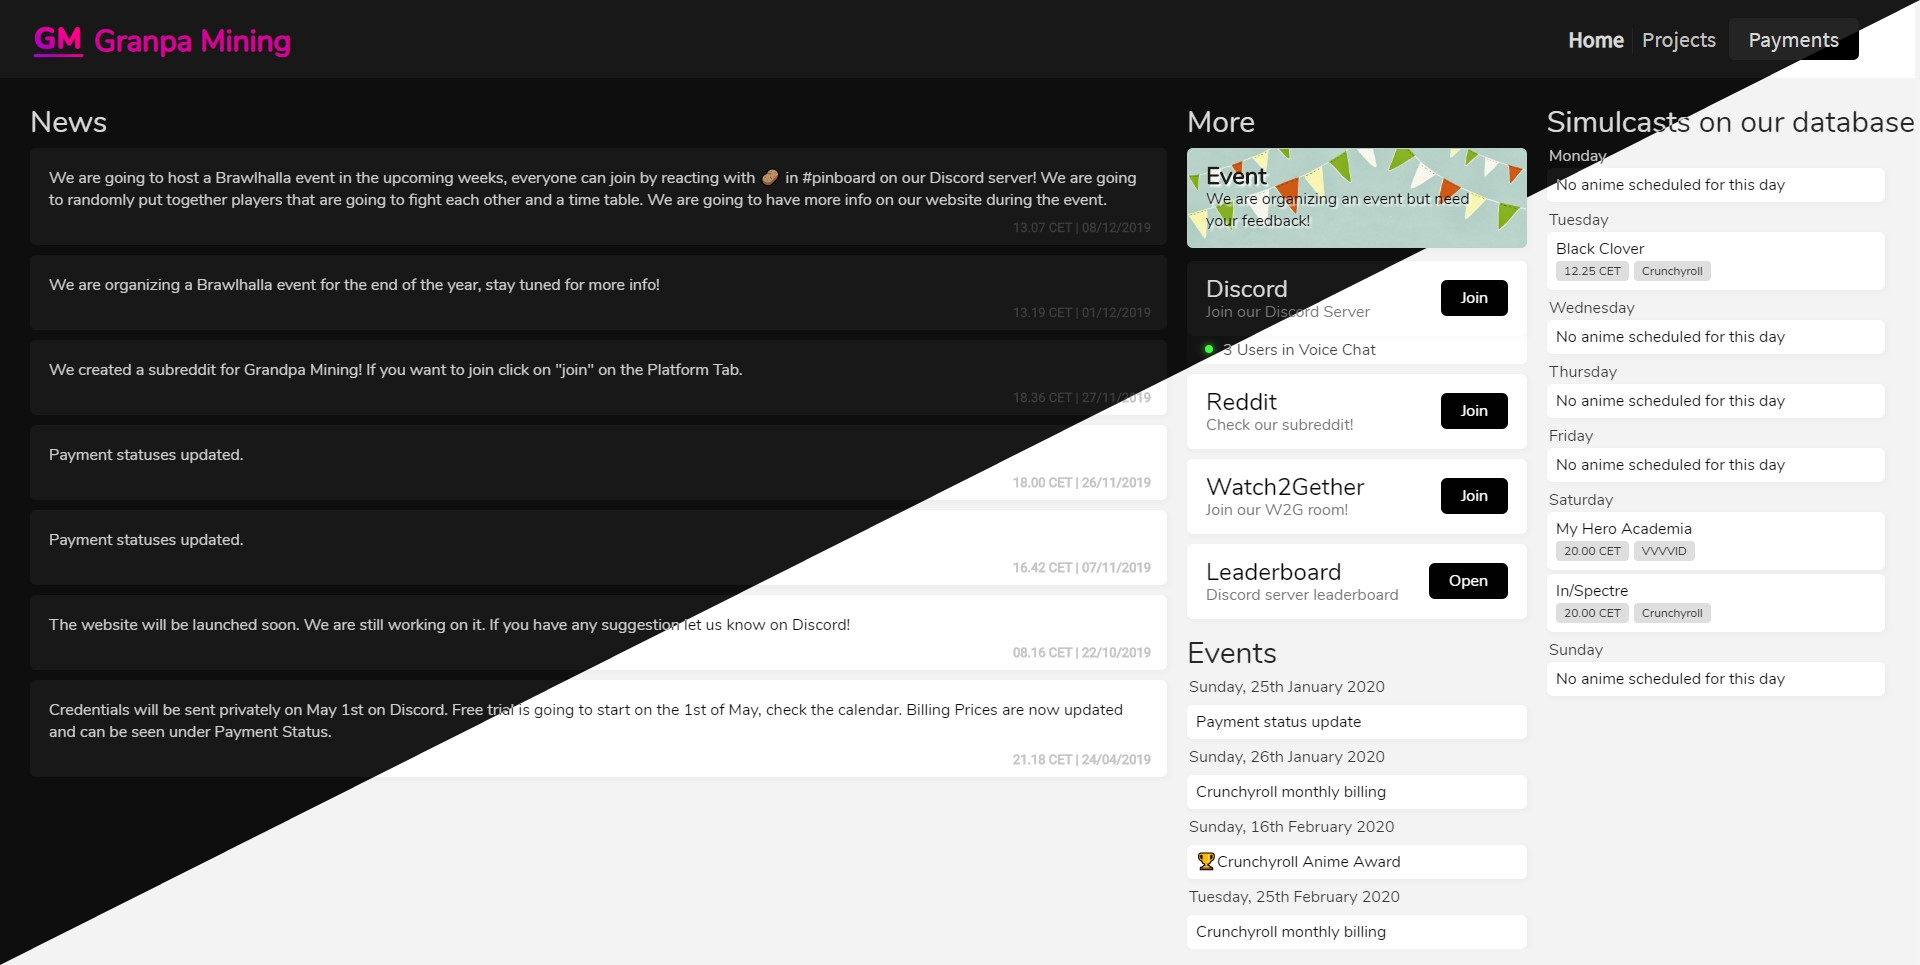
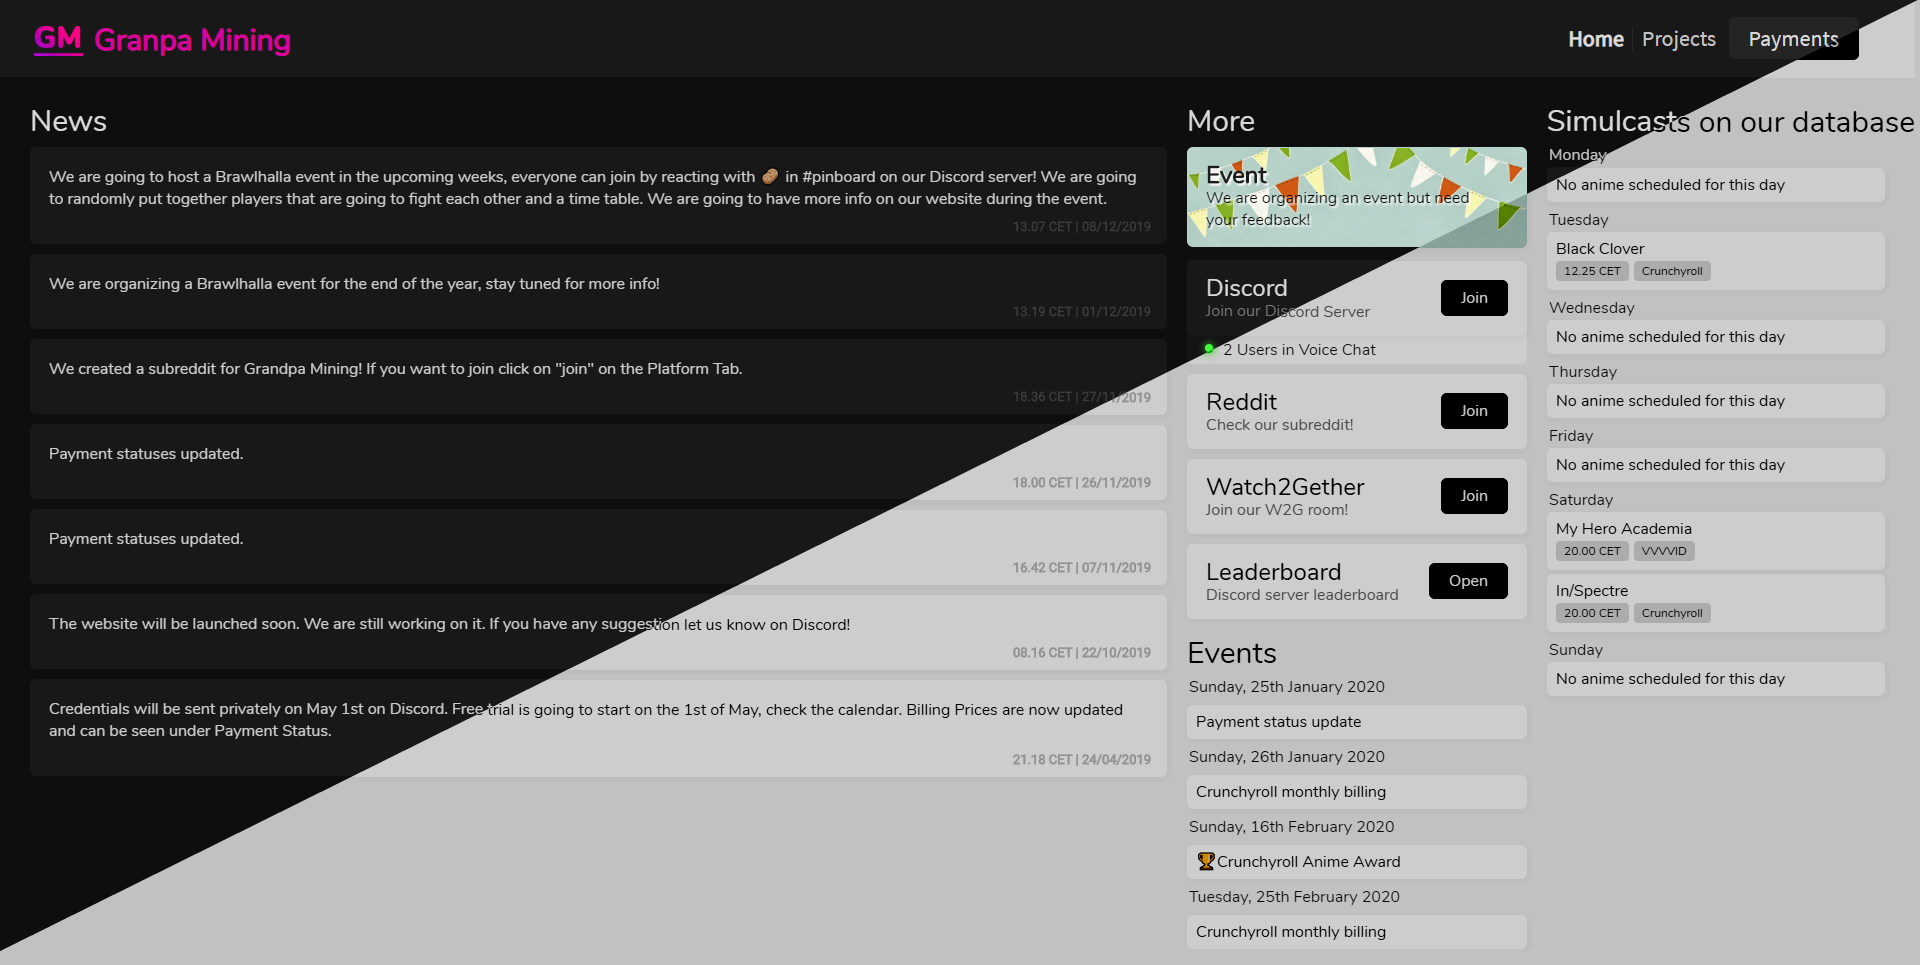
Almost finished

diff --git a/main.js b/main.js
@@ -1,3 +1,27 @@
+let dark = false
+
+document.getElementById('switch').addEventListener('click', () => {
+    if (dark === false){
+        document.getElementById('switch').style.rotate = '180deg'
+        document.getElementById('switch').style.filter = 'invert(100%)'
+        let darkCss = document.createElement('link')
+        darkCss.href = 'dark.css'
+        darkCss.rel = 'stylesheet'
+        document.getElementsByTagName('head')[0].append(darkCss)
+        dark = true
+        localStorage.setItem('theme', 'dark')
+    } else {
+        document.getElementById('switch').style.rotate = ''
+        document.getElementById('switch').style.filter = ''
+        document.getElementsByTagName('link')[2].remove
+        dark = false
+        localStorage.setItem('theme', 'light')
+        setTimeout(() => {
+            location.reload()
+        }, 600);
+    }
+})
+
 document.getElementsByClassName('discord')[0].addEventListener('mouseover', (e) => {
     document.getElementsByClassName('discord')[0].innerText = 'iGoof#0982'
 })
@@ -11,3 +35,65 @@ document.getElementsByClassName('email')[0].addEventListener('mouseover', (e) =>
 document.getElementsByClassName('email')[0].addEventListener('mouseleave', (e) => {
     document.getElementsByClassName('email')[0].innerText = 'E-Mail'
 })
+
+//one
+document.getElementById('one').addEventListener('mouseover', (e) => {
+    document.getElementById('one-title').style.top = '-190px'
+    document.getElementById('one-title').style.fontSize = '20px'
+    document.getElementById('one-text').style.top = '-180px'
+    document.getElementById('one-img').style.filter = 'blur(4px)'
+})
+document.getElementById('one').addEventListener('mouseleave', (e) => {
+    document.getElementById('one-title').style.top = '-40px'
+    document.getElementById('one-title').style.fontSize = '28px'
+    document.getElementById('one-text').style.top = '0px'
+    document.getElementById('one-img').style.filter = ''
+})
+//two
+document.getElementById('two').addEventListener('mouseover', (e) => {
+    document.getElementById('two-title').style.top = '-190px'
+    document.getElementById('two-title').style.fontSize = '20px'
+    document.getElementById('two-text').style.top = '-180px'
+    document.getElementById('two-img').style.filter = 'blur(4px)'
+})
+document.getElementById('two').addEventListener('mouseleave', (e) => {
+    document.getElementById('two-title').style.top = '-40px'
+    document.getElementById('two-title').style.fontSize = '28px'
+    document.getElementById('two-text').style.top = '0px'
+    document.getElementById('two-img').style.filter = ''
+})
+//three
+document.getElementById('three').addEventListener('mouseover', (e) => {
+    document.getElementById('three-title').style.top = '-190px'
+    document.getElementById('three-title').style.fontSize = '20px'
+    document.getElementById('three-text').style.top = '-180px'
+    document.getElementById('three-img').style.filter = 'blur(4px)'
+})
+document.getElementById('three').addEventListener('mouseleave', (e) => {
+    document.getElementById('three-title').style.top = '-40px'
+    document.getElementById('three-title').style.fontSize = '28px'
+    document.getElementById('three-text').style.top = '0px'
+    document.getElementById('three-img').style.filter = ''
+})
+//four
+document.getElementById('four').addEventListener('mouseover', (e) => {
+    document.getElementById('four-title').style.top = '-190px'
+    document.getElementById('four-title').style.fontSize = '20px'
+    document.getElementById('four-text').style.top = '-180px'
+    document.getElementById('four-img').style.filter = 'blur(4px)'
+})
+document.getElementById('four').addEventListener('mouseleave', (e) => {
+    document.getElementById('four-title').style.top = '-40px'
+    document.getElementById('four-title').style.fontSize = '28px'
+    document.getElementById('four-text').style.top = '0px'
+    document.getElementById('four-img').style.filter = ''
+})
+
+if (localStorage.getItem('theme') === 'dark'){
+    document.getElementById('switch').style.filter = 'invert(100%)'
+    let darkCss = document.createElement('link')
+    darkCss.href = 'dark.css'
+    darkCss.rel = 'stylesheet'
+    document.getElementsByTagName('head')[0].append(darkCss)
+    dark = true
+}

diff --git a/style.css b/style.css
@@ -1,6 +1,23 @@
 * {
     user-select: none;
 }
+body, .info {
+    transition: background 0.5s;
+}
+
+img#switch {
+    position: absolute;
+    height: 25px;
+    right: 30px;
+    top: 30px;
+    transition-property: filter, rotate;
+    transition: 0.6s;
+}
+img#switch:hover {
+    filter: invert(16%);
+    cursor: pointer;
+}
+
 .info {
     overflow: hidden;
     background: #eaeaea;
@@ -105,6 +122,9 @@
     border-radius: 10px;
     overflow: hidden;
     box-shadow: 0px 0px 20px 0px #0000006b;
+    position: relative;
+    left: 50%;
+    margin-left: -150px;
 }
 
 .projects img{
@@ -113,7 +133,7 @@
     transition: filter 0.3s;
 }
 .projects img:hover {
-    filter: blur(2px);
+    filter: blur(3px);
 }
 .projects h1 {
     z-index: 1;
@@ -121,11 +141,28 @@
     position: relative;
     top: -40px;
     float: right;
-    font-size: 26px;
+    font-size: 28px;
     font-family: 'Nunito';
     margin: 0px 16px 0px 0px;
     text-shadow: 2px 2px 8px black;
     pointer-events: none;
+    transition-property: top, font-size;
+    transition: 0.3s;
+}
+.projects p {
+    z-index: 1;
+    color: #f1f1f1;
+    position: relative;
+    top: 0px;
+    height: 174px;
+    float: right;
+    font-size: 18px;
+    font-family: 'Nunito';
+    margin: 0px 6px 0px 16px;
+    text-shadow: 2px 2px 2px black;
+    transition-property: top, font-size;
+    transition: 0.4s;
+    overflow: scroll;
 }
 .one {
     grid-row: 1;
@@ -149,3 +186,121 @@
     margin: 14px 0px 0px 0px;
 }
 
+div.five, div.six {
+    background-color: #181818;
+}
+.projects h2 {
+    z-index: 1;
+    color: white;
+    position: relative;
+    bottom: -160px;
+    float: right;
+    font-size: 28px;
+    font-family: 'Nunito';
+    margin: 0px 16px 0px 0px;
+    text-shadow: 2px 2px 8px black;
+    pointer-events: none;
+}
+
+@media screen and (max-width: 1832px){
+    .projects {
+        display: grid;
+        padding: 30px 20%;
+    }
+}
+@media screen and (max-width: 1570px){
+    .info {
+        padding: 30px 20%;
+    }
+    .projects {
+        display: grid;
+        padding: 30px 15%;
+    }
+}
+@media screen and (max-width: 1350px){
+    .info {
+        padding: 30px 15%;
+    }
+    .projects {
+        display: grid;
+        padding: 30px 10%;
+    }
+}
+@media screen and (max-width: 1242px){
+    .projects {
+        display: grid;
+        padding: 30px 10%;
+    }
+}
+@media screen and (max-width: 1182px){
+    .info {
+        padding: 30px 8%;
+    }
+    .projects {
+        display: grid;
+        padding: 30px 2%;
+    }
+}
+@media screen and (max-width: 970px){
+    .info {
+        padding: 30px 8%;
+    }
+    .projects {
+        display: block;
+        padding: 30px 2%;
+    }
+    .projects div {
+        width: 100%;
+        height: 200px;
+        display: inline-block;
+        border-radius: 10px;
+        overflow: hidden;
+        box-shadow: 0px 0px 20px 0px #0000006b;
+        position: relative;
+        left: 0%;
+        margin-left: 0px;
+    }
+    .projects img {
+        position: relative;
+        transition: filter 0.3s;
+        width: 100%;
+    }
+    .img-container {
+        height: 100px;
+        width: 100px;
+    }
+    .name {
+        font-size: 20px;
+    }
+    .info p {
+        font-size: 14px;
+    }
+    .social a, .social p {
+        font-size: 10px;
+    }
+}
+@media screen and (max-width: 520px){
+    .img-container{
+        display: none;
+    }
+}
+
+::-webkit-scrollbar {
+    width: 5px;
+    /* height: 147px; */
+}
+::-webkit-scrollbar-thumb {
+    background: #ffffff41 !important;
+    border-radius: 10px !important;
+    transition: 0.3s background ease-in-out;
+}
+::-webkit-scrollbar-track-piece {
+    background-color: transparent !important;
+    border-radius: 0 !important;
+    border: none !important;
+}
+::-webkit-scrollbar-track-piece {
+    background-color: transparent !important;
+    border-radius: 0 !important;
+    border: none !important;
+}

diff --git a/index.html b/index.html
@@ -9,10 +9,13 @@
     <link rel="stylesheet" href="reset.css">
     <link rel="stylesheet" href="style.css">
     <script src="main.js" defer></script>
+
+    <link rel="icon" href="./files/transparent.png">
     <title>Denis Mignanelli</title>
 </head>
 
 <body>
+    <img id="switch" src="./files/ld-switch.png" alt="light and dark mode switch">
     <div class="info">
         <div class="img-container">
             <img src="files/IMG_0056.jpeg">
@@ -34,38 +37,42 @@
         </div>
     </div>
     <div class="projects">
-        <a class="one "href="https://dark-by-dm9.webnode.it/">
+        <a id="one" class="one "href="https://dark-by-dm9.webnode.it/">
             <div class="one">
-                <img src="./files/darkbydm.jpg">
-                <h1>Dark by DM</h1>
+                <img id="one-img" src="./files/darkbydm.jpg">
+                <h1 id="one-title">Dark by DM</h1>
+                <p id="one-text">CSS theme I created for popular websites, this is where it all started for me, this project is where I decided and said to myself "I want to be a programmer and one day". You can still download them and I still support them and update them.</p>
             </div>
         </a>
-        <a class="two" href="https://grandpamining.now.sh/">
+        <a id="two" class="two" href="https://grandpamining.now.sh/">
             <div class="two">
-                <img src="./files/gm.png">
-                <h1>Grandpa Mining</h1>
+                <img id="two-img" src="./files/gm.png">
+                <h1 id="two-title">Grandpa Mining</h1>
+                <p id="two-text">Website for my Discord server, Community and now developer team. The website is more of a dashboard with some news, events, anime releases form our Discord server, payment statuses and invite links to our platforms and communities.</p>
             </div>
         </a>
-        <a class="three" href="https://github.com/DM164/YouTubeMusic-by-DM">
+        <a id="three" class="three" href="https://github.com/DM164/YouTubeMusic-by-DM">
             <div class="three">
-                <img src="./files/tymbydm.png">
-                <h1>YTMusic by DM</h1>
+                <img id="three-img" src="./files/tymbydm.png">
+                <h1 id="three-title">YTMusic by DM</h1>
+                <p id="three-text">YouTube Music app built with Electron. This is a small project I started and finished to learn how to code in HTML, Javascript, CSS and use the Electron framework. The project is still being supported by me and is not going to be forgotten soon.</p>
             </div>
         </a>
-        <a class="four" href="">
+        <a id="four" class="four" href="">
             <div class="four">
-                <img src="./files/fmn.jpg">
-                <h1>Forget Me Not</h1>
+                <img id="four-img" src="./files/fmn.jpg">
+                <h1 id="four-title">Forget Me Not</h1>
+                <p id="four-text">Anime reminder app, never forget what episode you were watching with Forget Me Not. The app is still under developement and is not available to the public.</p>
             </div>
         </a>
         <a class="five" href="">
             <div class="five">
-                N/A
+                <h2>No project</h2>
             </div>
         </a>
         <a class="six" href="">
             <div class="six">
-                N/A
+                <h2>No project</h2>
             </div>
         </a>
     </div>

diff --git a/dark.css b/dark.css
@@ -1,0 +1,17 @@
+.info {
+    background: #080808;
+}
+.text-container {
+    color: white;
+}
+.social a, .social p {
+    color: black;
+    background-color: white;
+    font-weight: 600;
+}
+body {
+    background: #0c0c0c;
+}
+.projects div {
+    box-shadow: 0px 0px 20px 0px #000000;
+}
